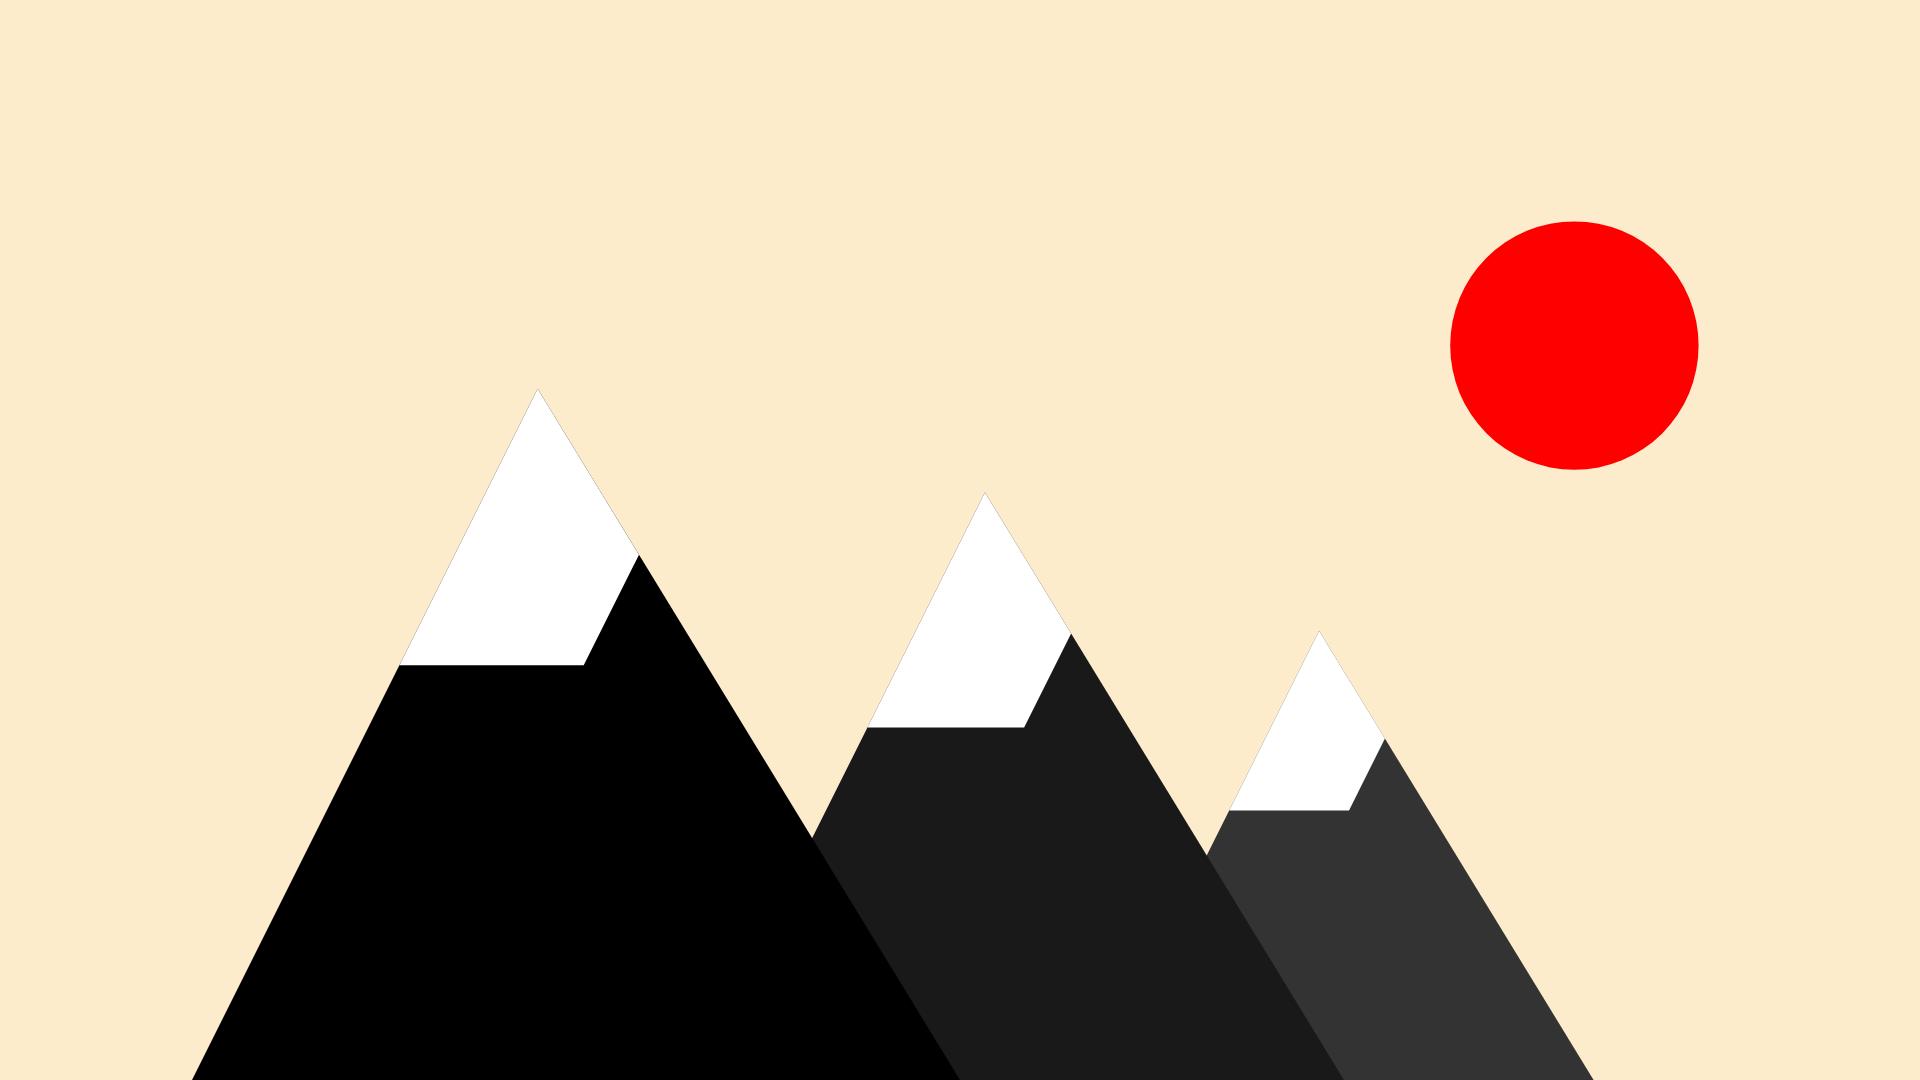
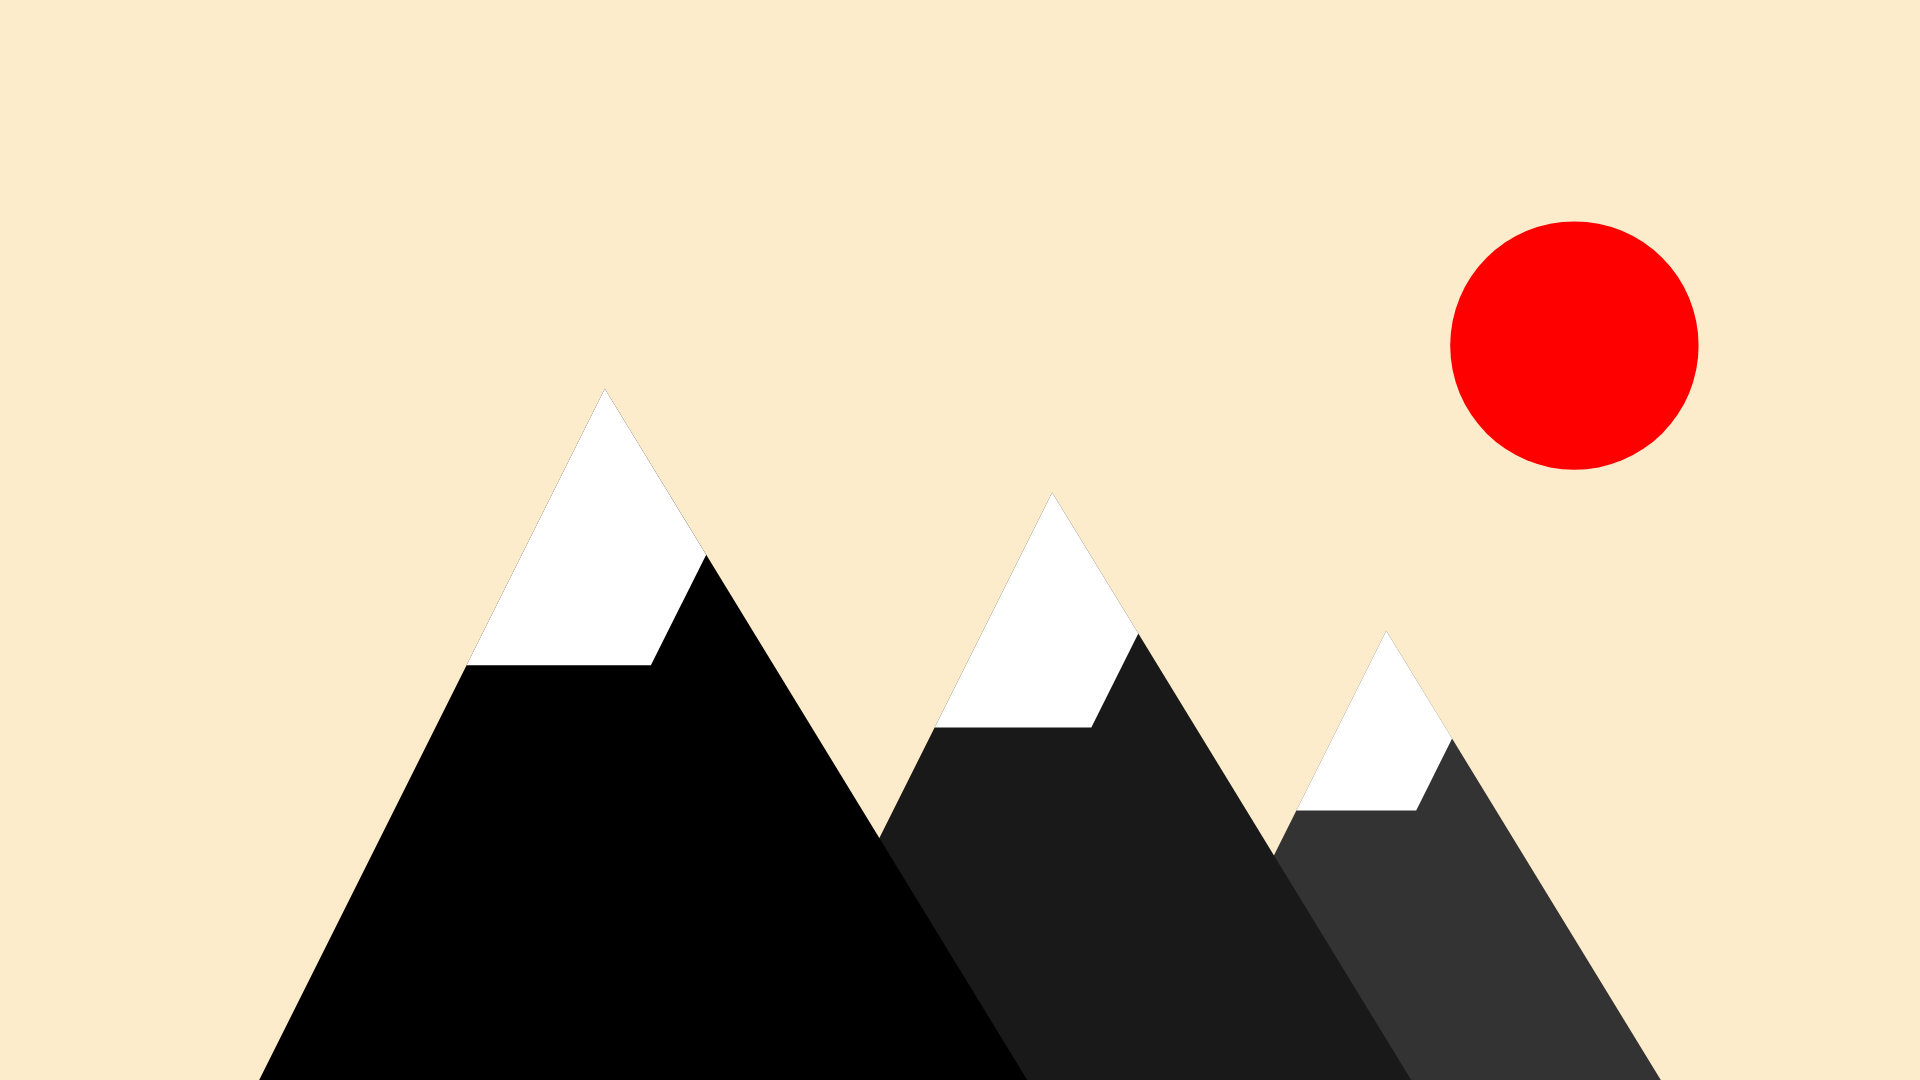
Center mountain

Changed region(s): [[0.0938, 0.3667, 0.875, 1.0]]

diff --git a/src/mountain.rs b/src/mountain.rs
@@ -14,8 +14,13 @@ pub fn draw(canvas: &mut Canvas) {
     // Fill with the sky color.
     canvas.clear(Palette::BEIGE);
 
-    let base_origin = 0.57 * width;
+    canvas.save();
+
+    let base_origin = 0.47 * width;
     let base_length = 0.26 * width;
+
+    canvas.translate(((width - base_length - base_origin) / 2.0, 0.0));
+
     let base = Segment::new(
         base_origin,
         canvas.height(),
@@ -34,7 +39,7 @@ pub fn draw(canvas: &mut Canvas) {
         &mut paint,
     );
 
-    let base_origin = 0.36 * width;
+    let base_origin = 0.26 * width;
     let base_length = 0.34 * width;
     let base = Segment::new(
         base_origin,
@@ -54,7 +59,7 @@ pub fn draw(canvas: &mut Canvas) {
         &mut paint,
     );
 
-    let base_origin = 0.1 * width;
+    let base_origin = 0.0 * width;
     let base_length = 0.4 * width;
     let base = Segment::new(
         base_origin,
@@ -74,6 +79,7 @@ pub fn draw(canvas: &mut Canvas) {
         &mut paint,
     );
 
+    canvas.restore();
     let sun_scale = width.min(height);
     let sun_position = (canvas.width() - sun_scale * 0.32, sun_scale * 0.32);
     paint.set_color(Palette::RED);
